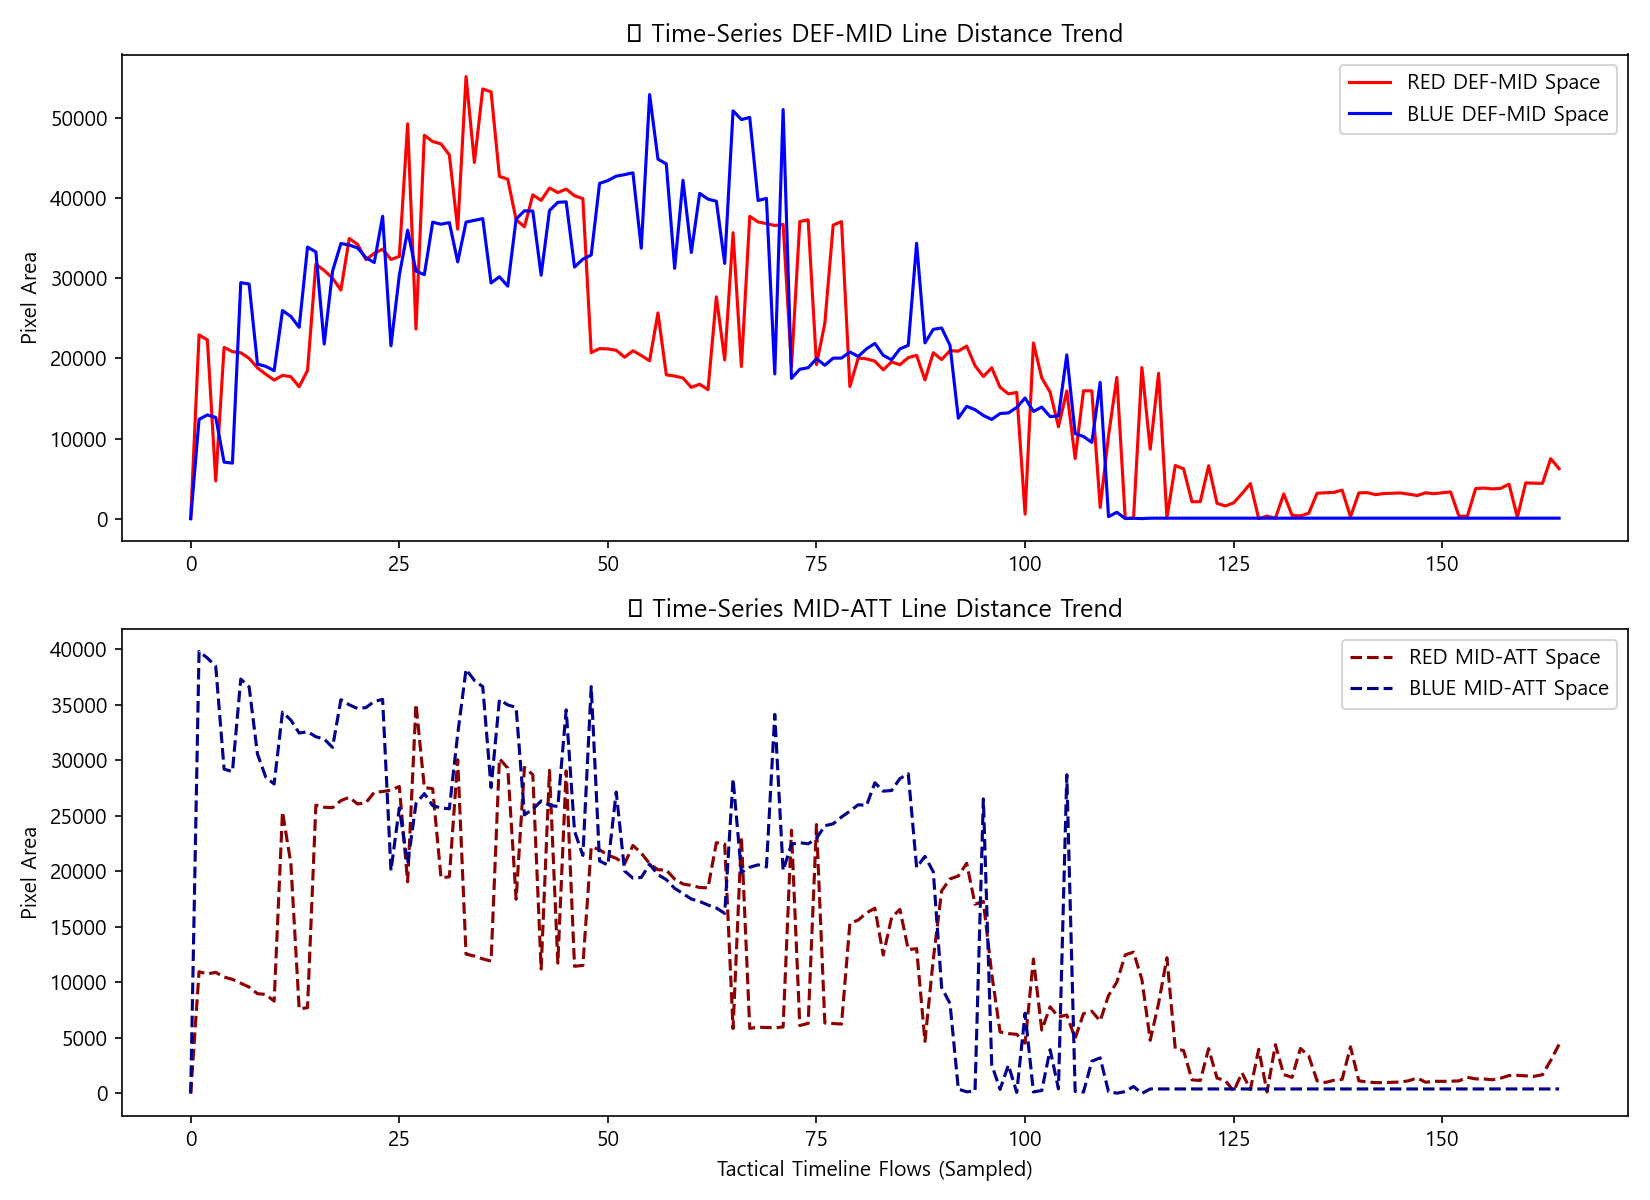
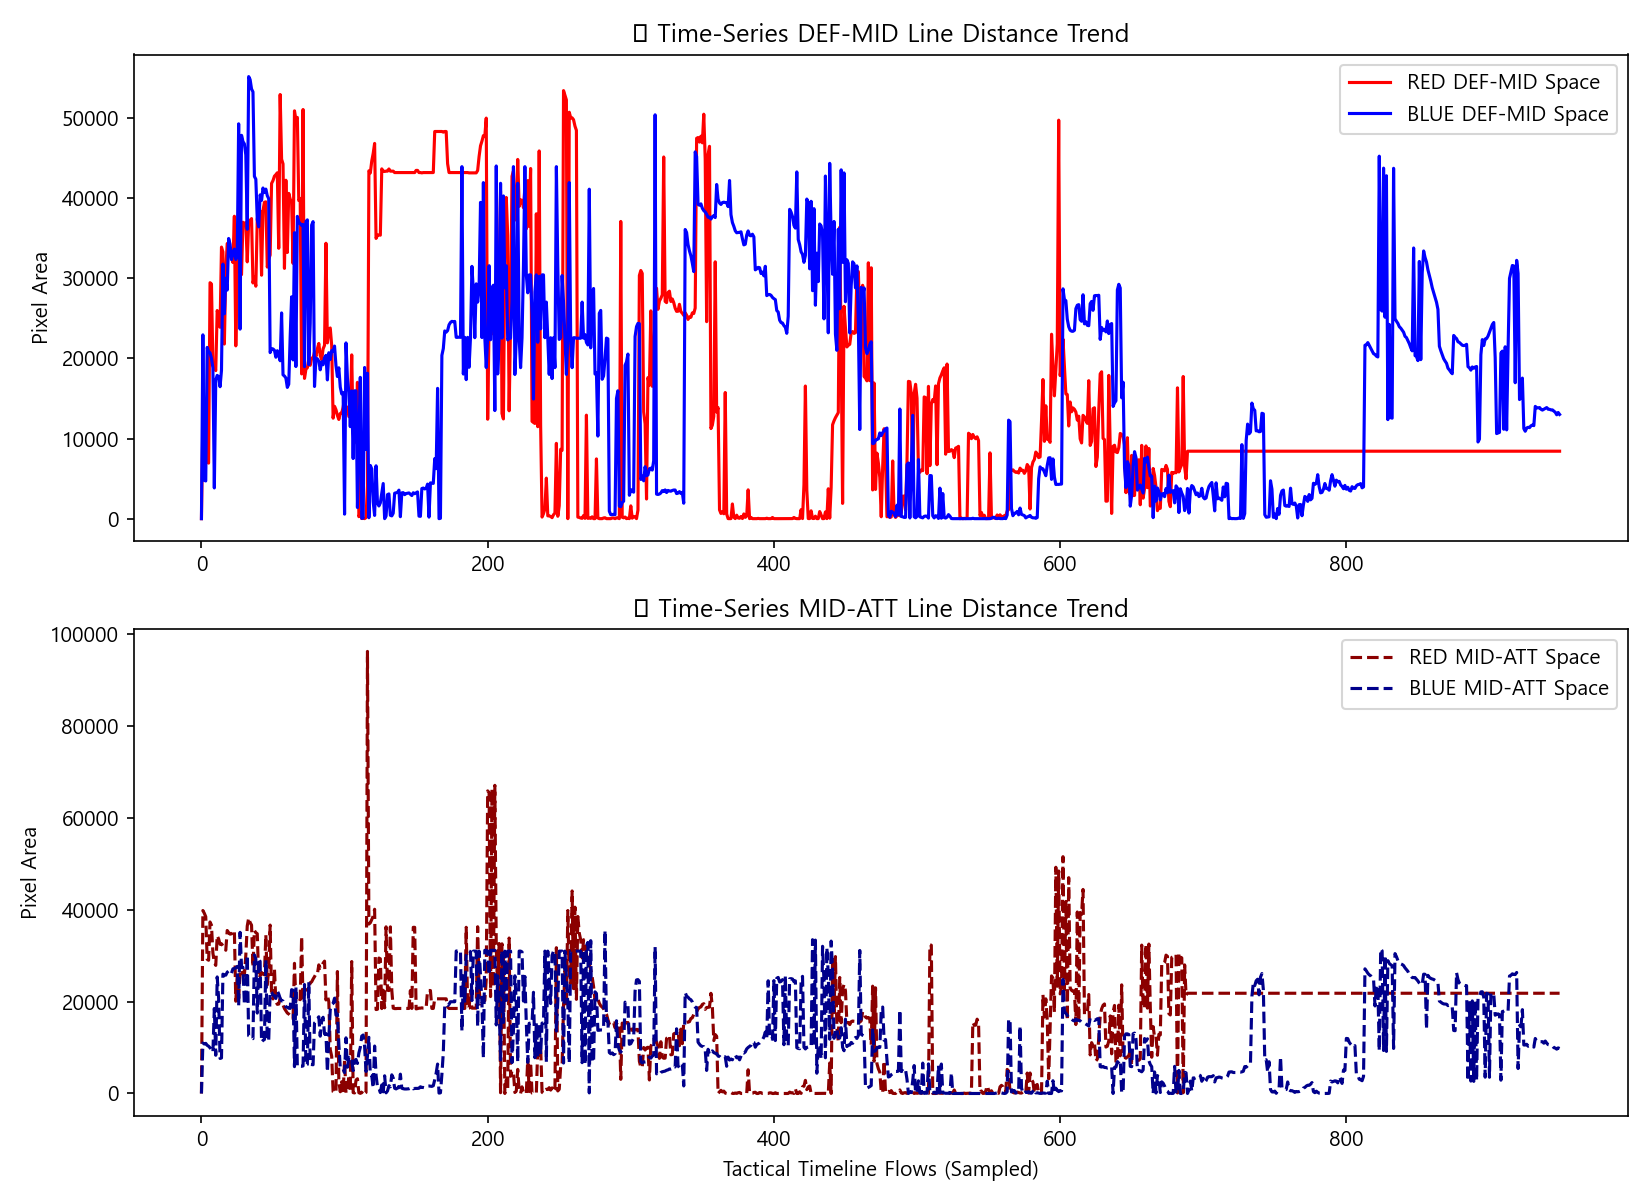
FastAPI Setting

diff --git a/yolo_flask/templates/stream.html b/yolo_flask/templates/stream.html
@@ -31,7 +31,7 @@
     <div class="section">
         <h3>1. 원본 영상 구간 선택</h3>
         <video id="mainVideo" controls>
-            <source src="{{ url_for('uploaded_file', filename=filename) }}" type="video/mp4">
+            <source src="/uploaded_file/{{ filename }}" type="video/mp4">
         </video>
         
         <div class="controls">